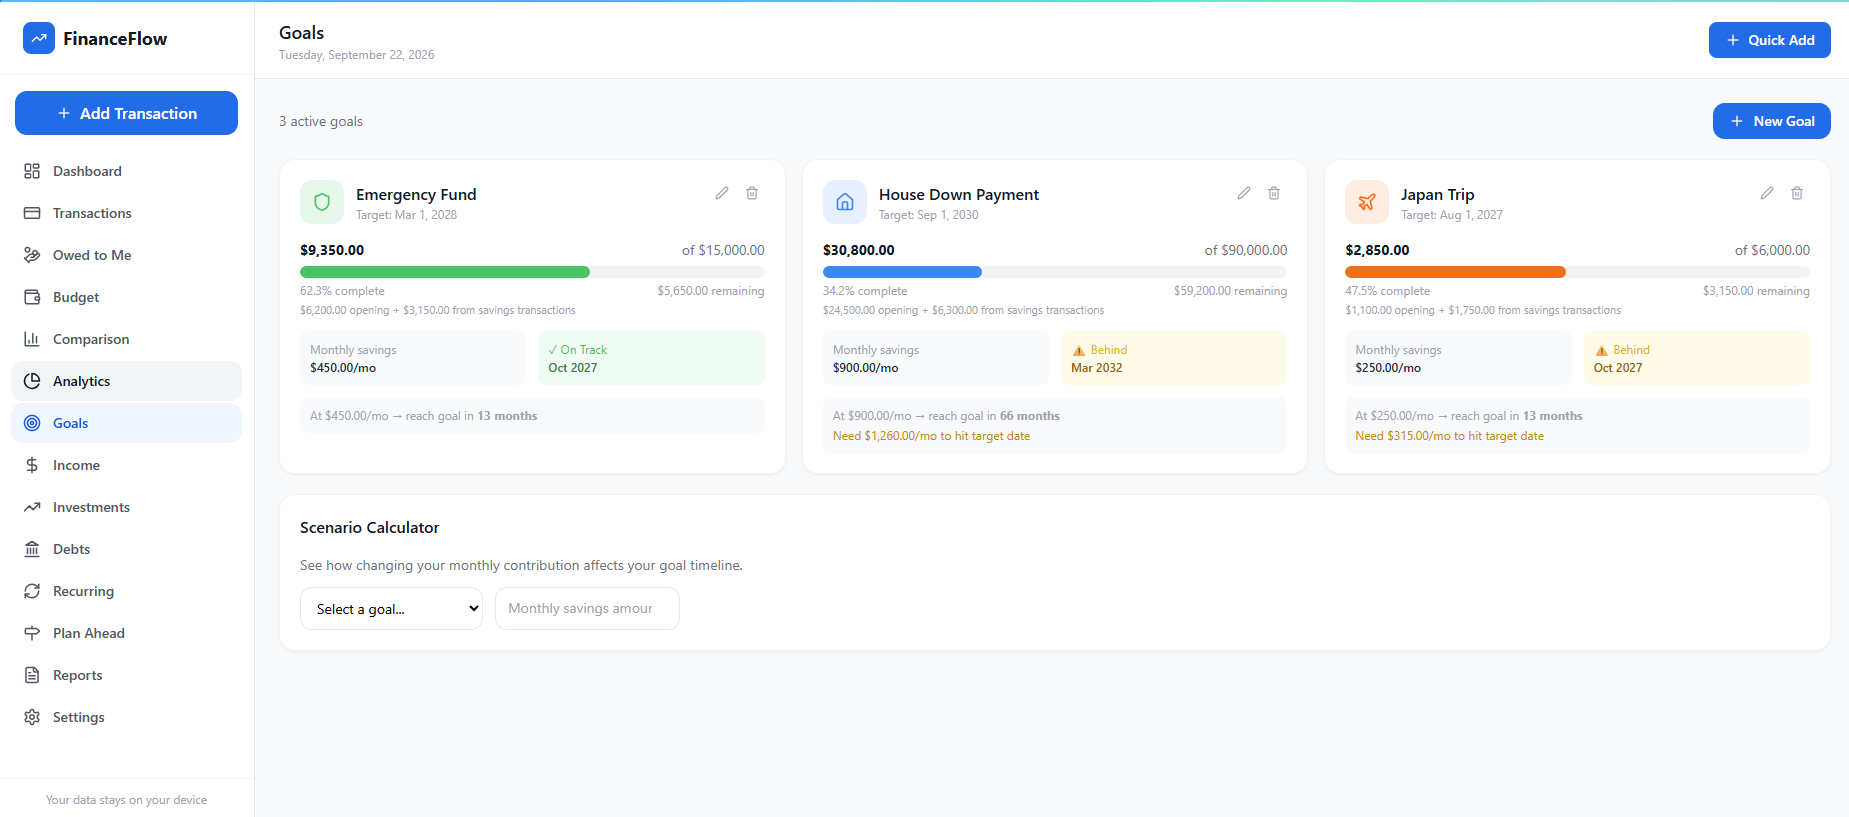
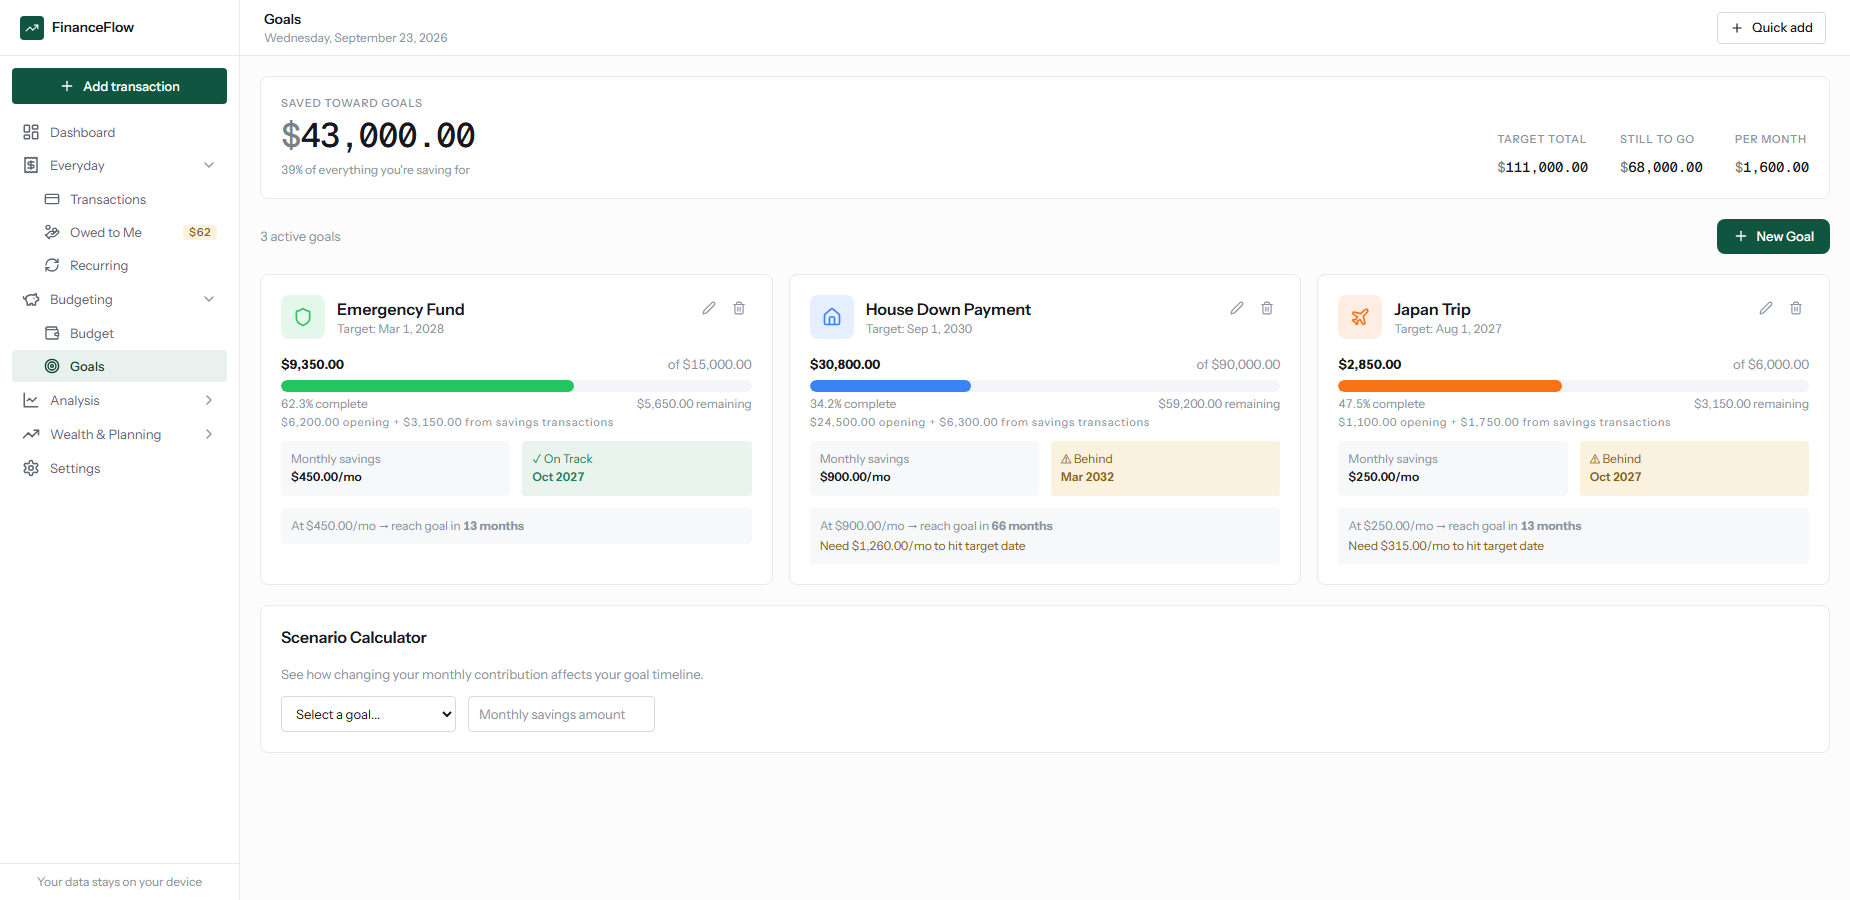
Retake all eleven screenshots against the current design
The images in the README predated the design-system rebuild, so the
first thing anyone saw was a UI that no longer exists, in the old blue
theme.

Captured from the demo build at one fixed 1850px viewport with the
demo-mode banner dismissed, so the set is internally consistent and
none of them carries browser chrome that is not part of the app. The
cursor is parked off-canvas before each shot, because a chart tooltip
caught mid-hover reads as an accident rather than a feature.

Two needed more than navigating to the page. The Monte Carlo is shot
after actually running the simulation and scrolled so the summary
figures and the outcome band are in frame together — the empty state
would have shown none of what the caption promises. Owed to Me is
clipped to its content instead of padded out with 400px of empty
background.

The Monte Carlo caption said 71%; this run reports 67%, so the alt text
now matches the picture it describes.

diff --git a/README.md b/README.md
@@ -84,7 +84,7 @@ federal tax applied each year and CPP/OAS starting at the chosen ages.**
 
 **…then run it a few hundred times with a random return each year, instead of the same return
 every year, to see how often the plan survives.**
-![Monte Carlo: 71% of 300 runs hold up, with a median outcome and a middle-80% band to 2094](docs/screenshots/plan-montecarlo.png)
+![Monte Carlo: 67% of 300 runs hold up, with a median outcome and a middle-80% band to 2094](docs/screenshots/plan-montecarlo.png)
 
 **Analytics — what changed this month, against your own baseline rather than a fixed budget.**
 ![Analytics: waterfall of category changes vs the 3-month average](docs/screenshots/analytics.png)
